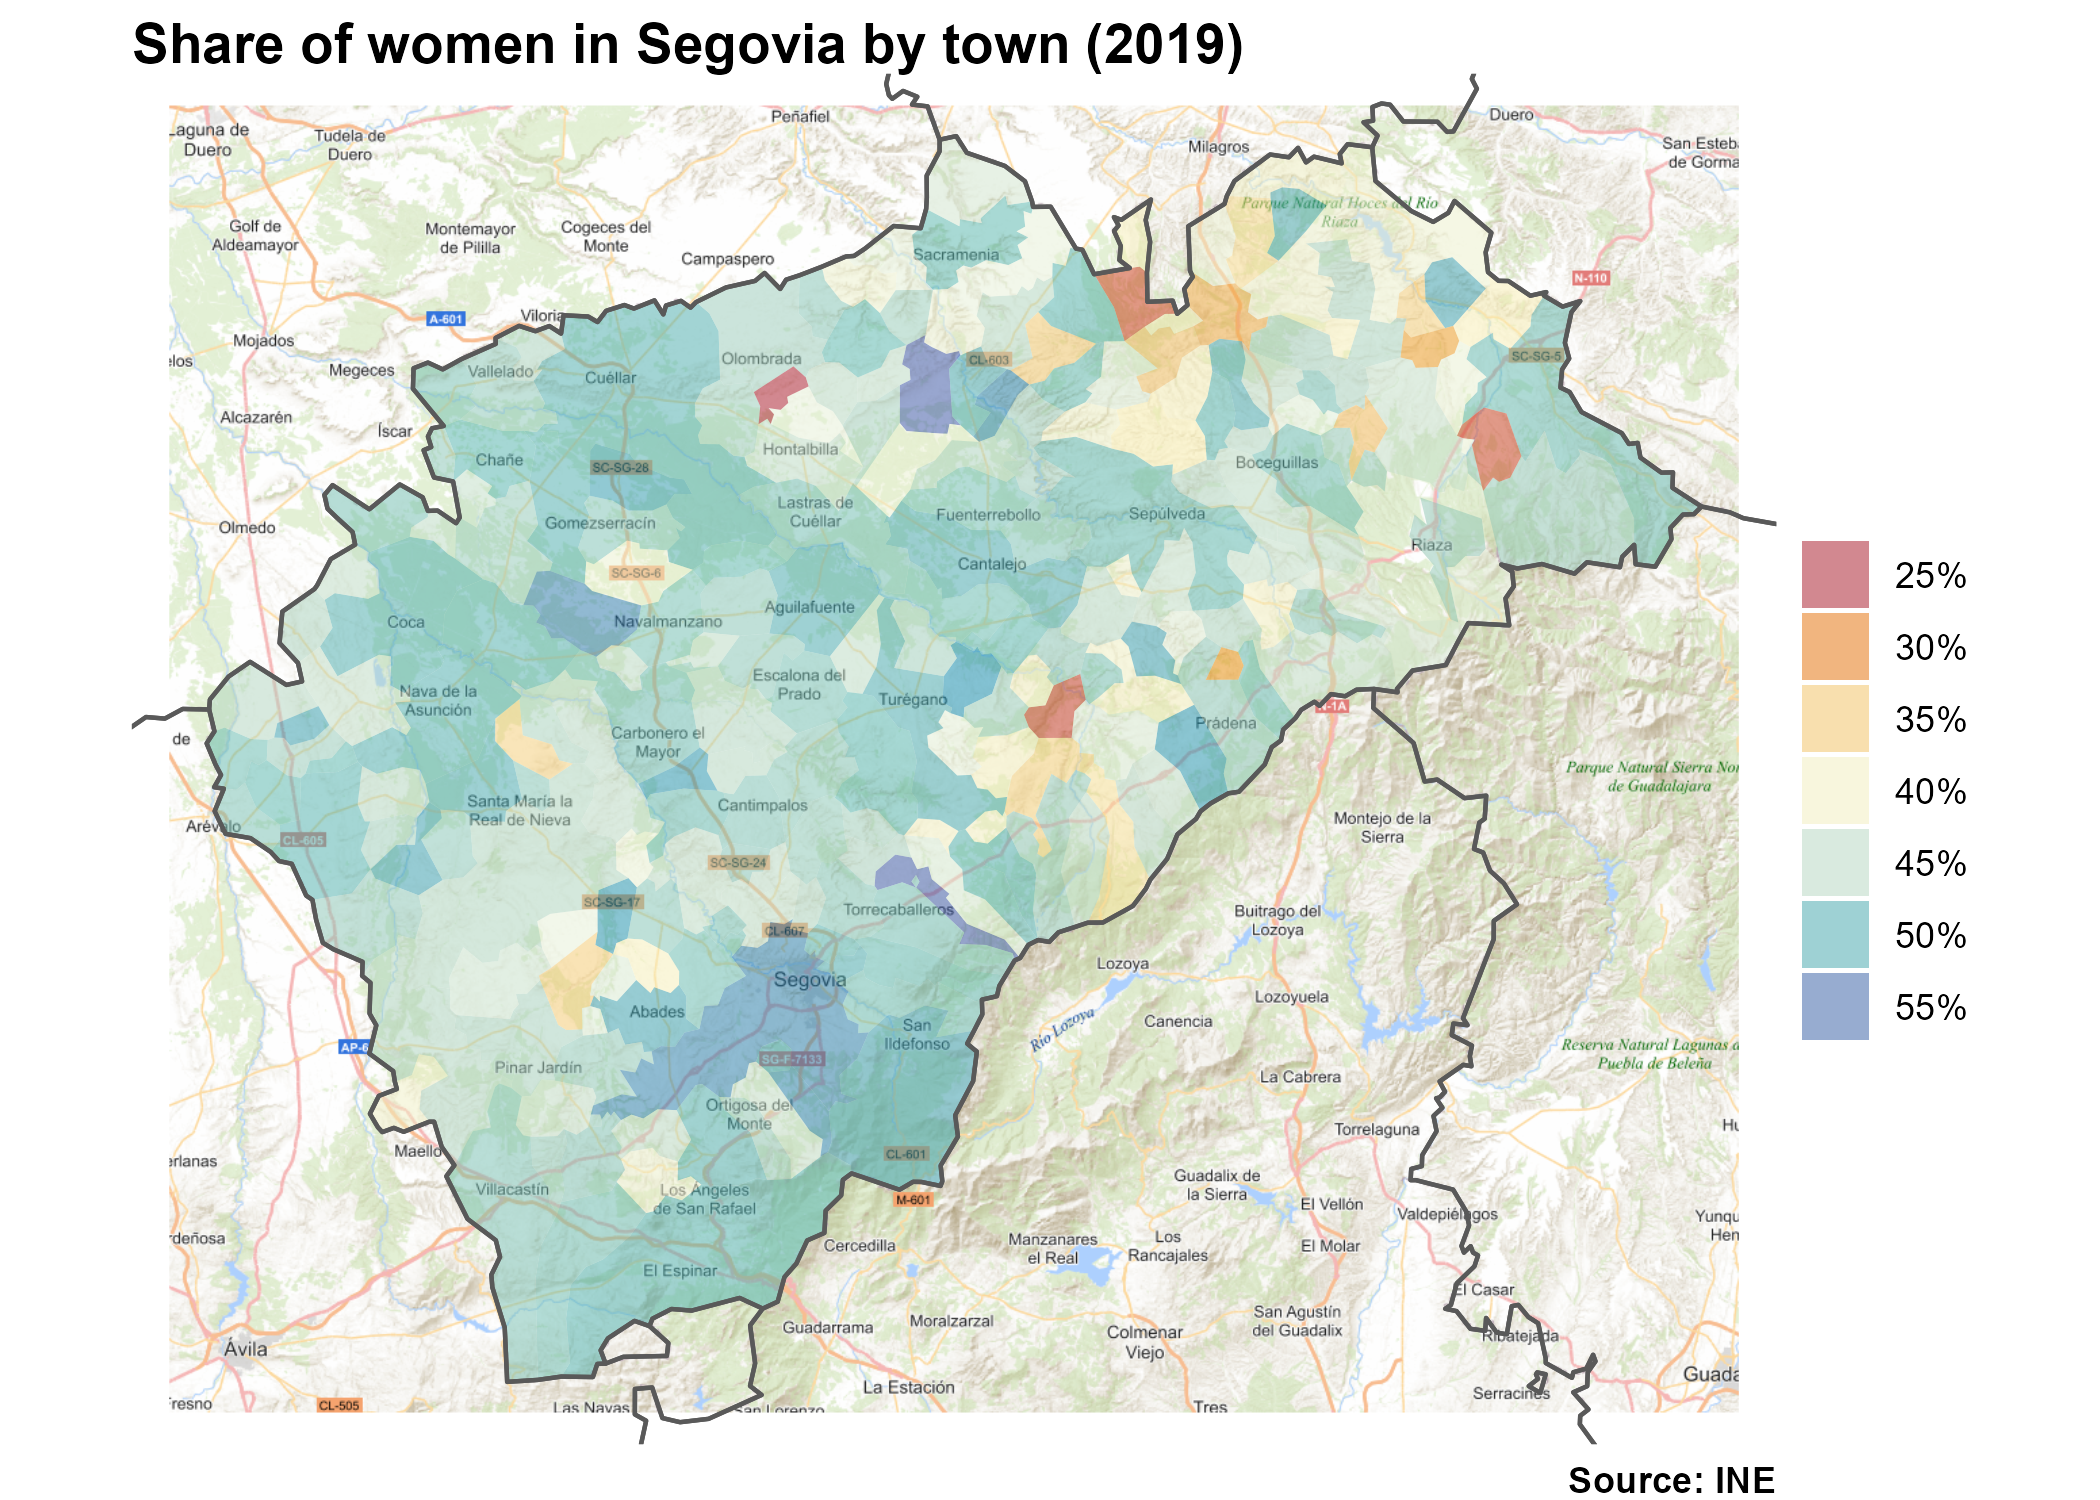
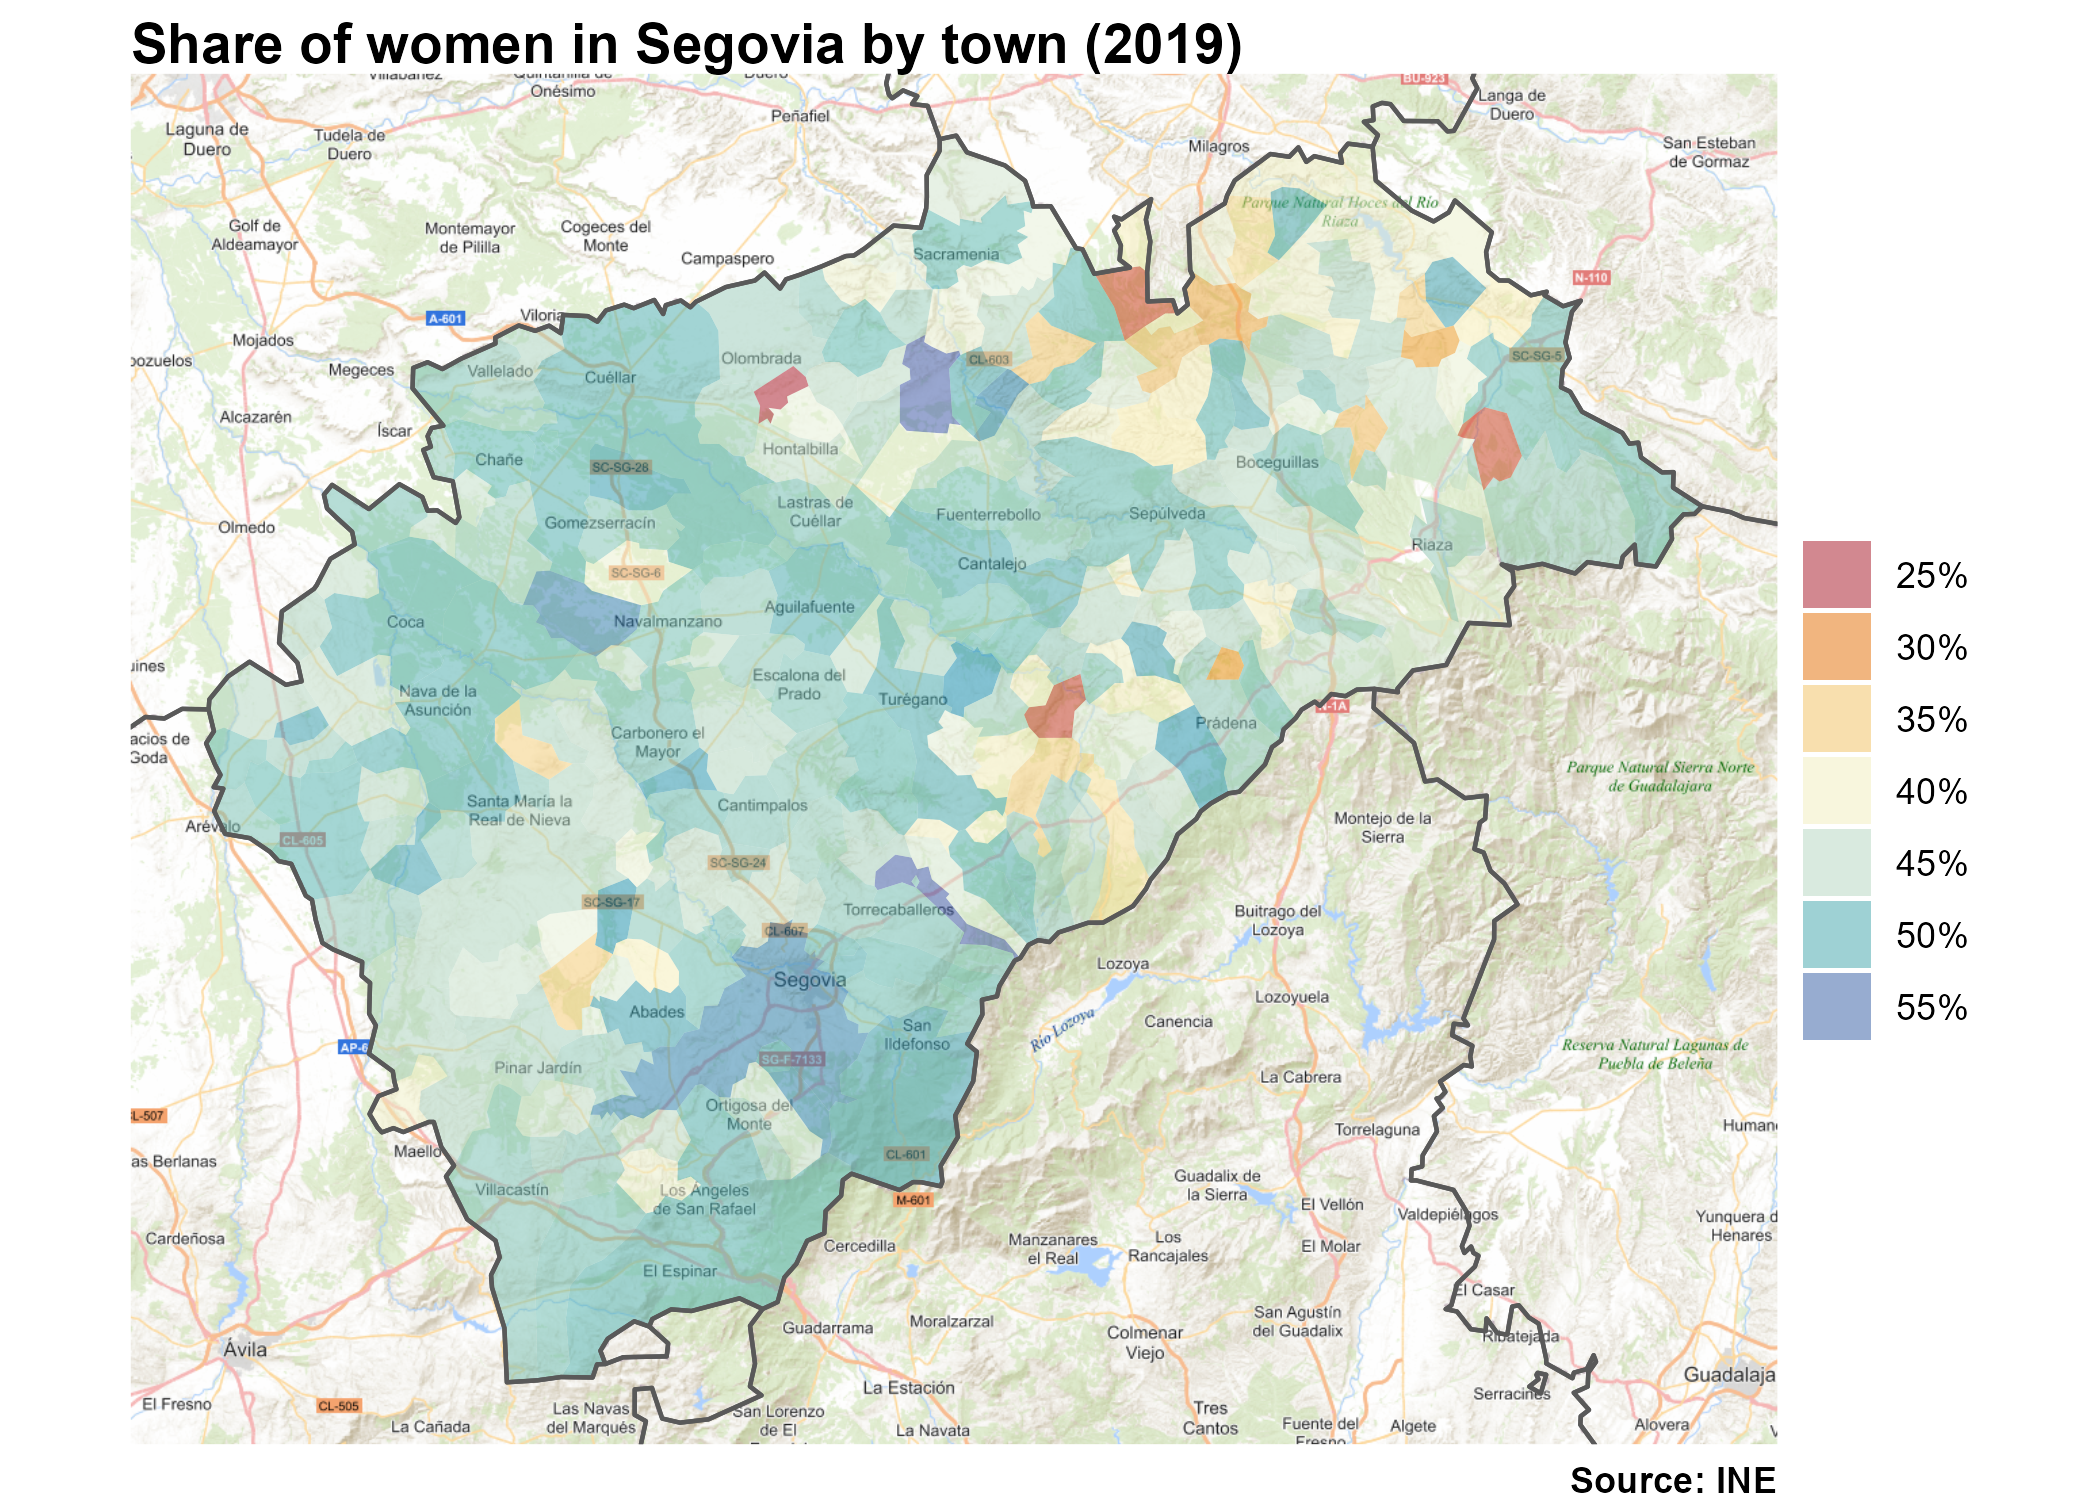
Update docs

diff --git a/README.md b/README.md
@@ -62,7 +62,6 @@ install_github("rOpenSpain/mapSpain")
 This script highlights some features of **mapSpain** :
 
 ``` r
-
 library(mapSpain)
 
 census <- mapSpain::pobmun19
@@ -121,7 +120,6 @@ ggplot(CCAA_sf) +
 You can combine `sf` objects with static tiles
 
 ``` r
-
 # Get census
 census <- mapSpain::pobmun19
 census$porc_women <- census$women / census$pob19
@@ -140,14 +138,15 @@ shape_pop <- merge(shape,
 tile <-
   esp_getTiles(shape_pop,
     type = "IGNBase.Todo",
-    zoom = 10
+    zoom = 10,
+    bbox_expand = .1
   )
 
 # Plot
 
 library(ggplot2)
 
-lims <- as.double(sf::st_bbox(shape))
+lims <- as.double(terra::ext(tile)@ptr$vector)
 
 ggplot(remove_missing(shape_pop, na.rm = TRUE)) +
   layer_spatraster(tile) +
@@ -162,8 +161,9 @@ ggplot(remove_missing(shape_pop, na.rm = TRUE)) +
     guide = guide_legend(title = "", )
   ) +
   coord_sf(
-    xlim = lims[c(1, 3)],
-    ylim = lims[c(2, 4)]
+    xlim = lims[c(1, 2)],
+    ylim = lims[c(3, 4)],
+    expand = FALSE
   ) +
   labs(
     title = "Share of women in Segovia by town (2019)",
@@ -185,7 +185,6 @@ installed as a dependency when you installed **mapSpain**. A basic
 example:
 
 ``` r
-
 library(giscoR)
 
 # Set the same resolution for a perfect fit
@@ -247,18 +246,17 @@ it will load it, speeding up the process.
 
 Some packages recommended for visualization are:
 
-  - [**tmap**](https://github.com/r-tmap/tmap)
-  - [**mapsf**](https://riatelab.github.io/mapsf/)
-  - [**ggplot2**](https://github.com/tidyverse/ggplot2) +
+-   [**tmap**](https://github.com/r-tmap/tmap)
+-   [**mapsf**](https://riatelab.github.io/mapsf/)
+-   [**ggplot2**](https://github.com/tidyverse/ggplot2) +
     [**ggspatial**](https://github.com/paleolimbot/ggspatial)
-  - [**leaflet**](https://rstudio.github.io/leaflet/)
+-   [**leaflet**](https://rstudio.github.io/leaflet/)
 
 ## Citation
 
 Please use the following when citing **mapSpain**:
 
 ``` r
-
 citation("mapSpain")
 #> 
 #> To cite the 'mapSpain' package in publications use:
@@ -299,7 +297,7 @@ This package uses data from **GISCO**. GISCO
 open data repository including several data sets at several resolution
 levels.
 
-*From GISCO \> Geodata \> Reference data \> Administrative Units /
+*From GISCO &gt; Geodata &gt; Reference data &gt; Administrative Units /
 Statistical Units*
 
 > When data downloaded from this page is used in any printed or
@@ -307,13 +305,13 @@ Statistical Units*
 > to the whole Eurostat website, data source will have to be
 > acknowledged in the legend of the map and in the introductory page of
 > the publication with the following copyright notice:
-> 
+>
 > EN: © EuroGeographics for the administrative boundaries
-> 
+>
 > FR: © EuroGeographics pour les limites administratives
-> 
+>
 > DE: © EuroGeographics bezüglich der Verwaltungsgrenzen
-> 
+>
 > For publications in languages other than English, French or German,
 > the translation of the copyright notice in the language of the
 > publication shall be used.
